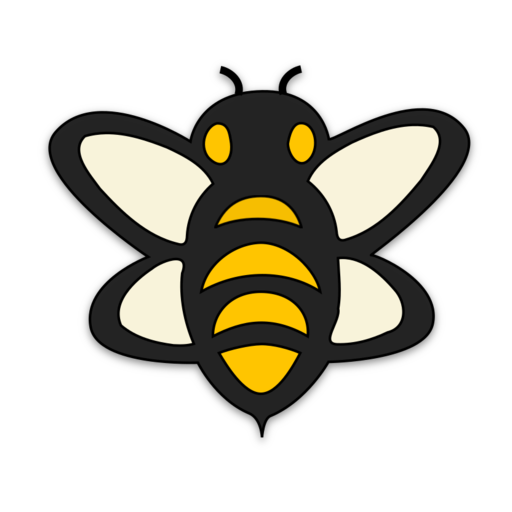
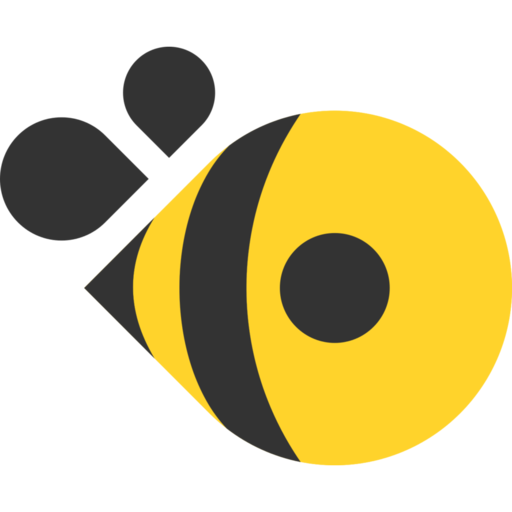
brand update and privacy

diff --git a/privacy.md b/privacy.md
@@ -1,0 +1,30 @@
+Privacy Notice
+This privacy notice discloses the privacy practices for oughtabee.app. This privacy notice applies solely to information collected by this website. It will notify you of the following:
+
+What personally identifiable information is collected from you through the website, how it is used and with whom it may be shared.
+What choices are available to you regarding the use of your data.
+The security procedures in place to protect the misuse of your information.
+How you can correct any inaccuracies in the information.
+Information Collection, Use, and Sharing
+We are the sole owners of the information collected on this site. We only have access to/collect information that you voluntarily give us via email or other direct contact from you. We will not sell or rent this information to anyone.
+
+We will use your information to respond to you, regarding the reason you contacted us. We will not share your information with any third party outside of our organization, other than as necessary to fulfill your request, e.g. to ship an order.
+
+Unless you ask us not to, we may contact you via email in the future to tell you about specials, new products or services, or changes to this privacy policy.
+
+Your Access to and Control Over Information
+You may opt out of any future contacts from us at any time. You can do the following at any time by contacting us via the email address or phone number given on our website:
+
+See what data we have about you, if any.
+Change/correct any data we have about you.
+Have us delete any data we have about you.
+Express any concern you have about our use of your data.
+Security
+We take precautions to protect your information. When you submit sensitive information via the website, your information is protected both online and offline.
+
+Wherever we collect sensitive information (such as credit card data), that information is encrypted and transmitted to us in a secure way. You can verify this by looking for a lock icon in the address bar and looking for "https" at the beginning of the address of the Web page.
+
+While we use encryption to protect sensitive information transmitted online, we also protect your information offline. Only employees who need the information to perform a specific job (for example, billing or customer service) are granted access to personally identifiable information. The computers/servers in which we store personally identifiable information are kept in a secure environment.
+
+If you feel that we are not abiding by this privacy policy, you should contact us immediately via telephone at (573) 424-7132 or via email to info@oughtabee.xyz.
+
